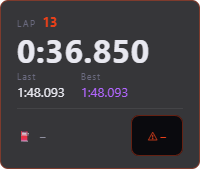
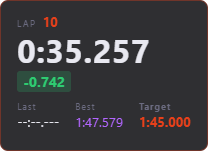
- updated README

diff --git a/README.md b/README.md
@@ -48,20 +48,31 @@ No cloud, everything free, everything open-source.
 - Gear
 
 ### ⛽ Fuel
-TODO document
+<img src="media/fuel.png" width="225" alt="Fuel"/>
+
+- Current fuel
+- Estimated laps remaining
+- Fuel matrix (Last and average last 5 laps):
+  - Fuel consumption
+  - Lap to pit
+  - Fuel left at pitting
 
 ### ⏱ Lap Timer
 <img src="media/lap-timer.png" width="225" alt="Lap timer"/>
 
 - Current lap
 - Current lap time
+- Delta to best lap or target lap (if set)
 - Last lap time
 - Best lap time
-- Estimated Laps
-- Incidents
+- Target lap time (only if set)
 
 ### ❌ Incidents
-TODO document
+<img src="media/incidents.png" width="225" alt="Incidents"/>
+
+- Incidents of current driver
+- Team incidents
+- Incident limit (next penalty at X incidents)
 
 ### 🗺 Trackmap
 <img src="media/trackmap.png" width="550" alt="Trackmap"/>
@@ -80,6 +91,7 @@ TODO document
 - Tire temperature
 
 The data is only updated when you are pitting.
+Therefore, the overlay is only visible in the pit lane.
 
 ### 🏁 Flags
 <img src="media/flags.png" width="225" alt="Flags"/>
